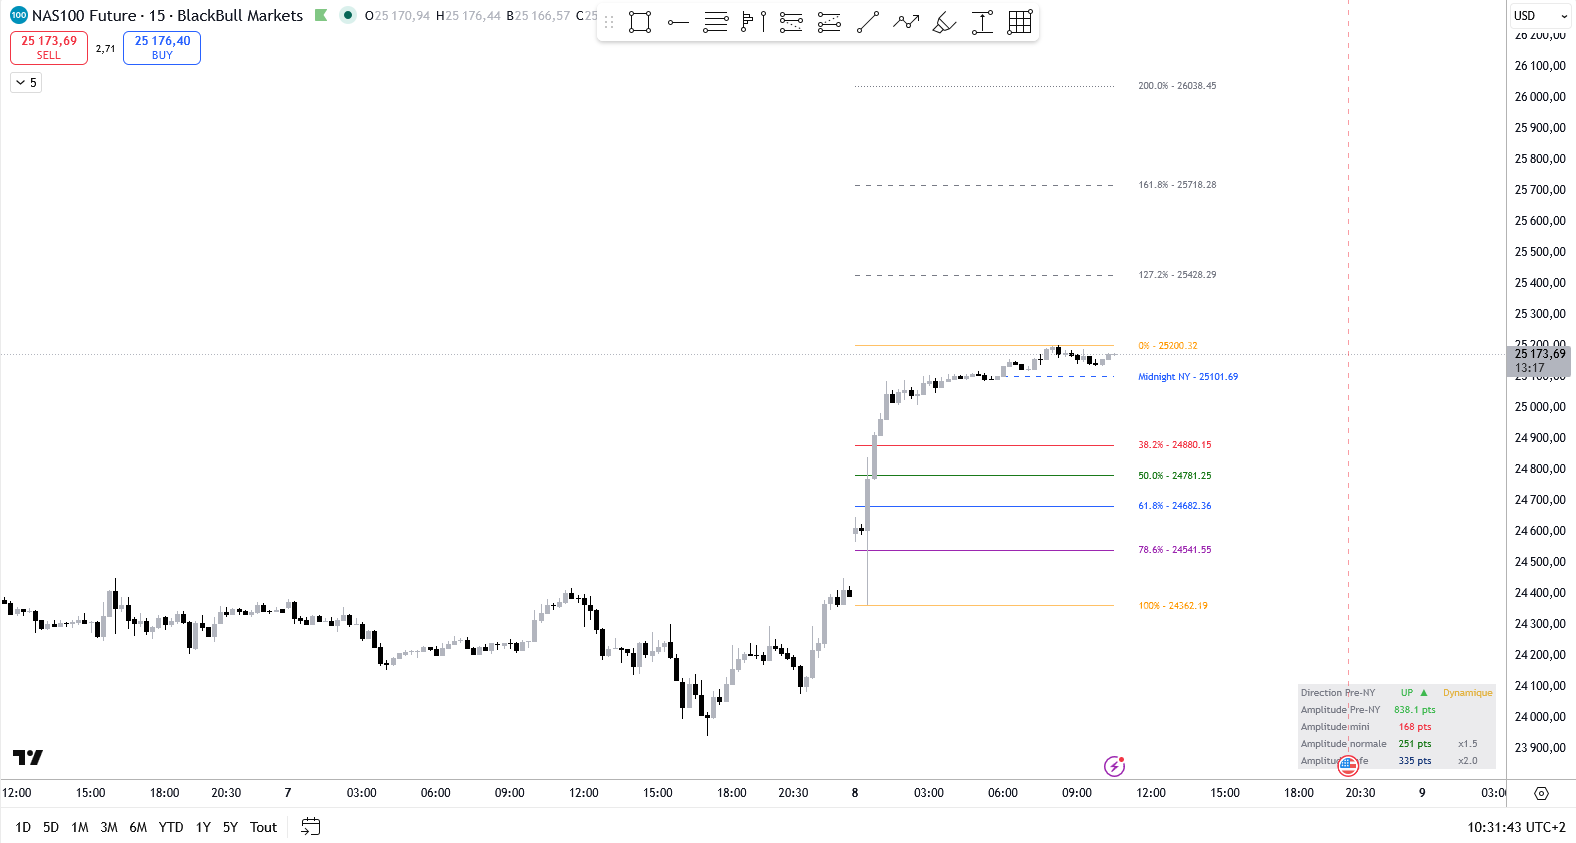
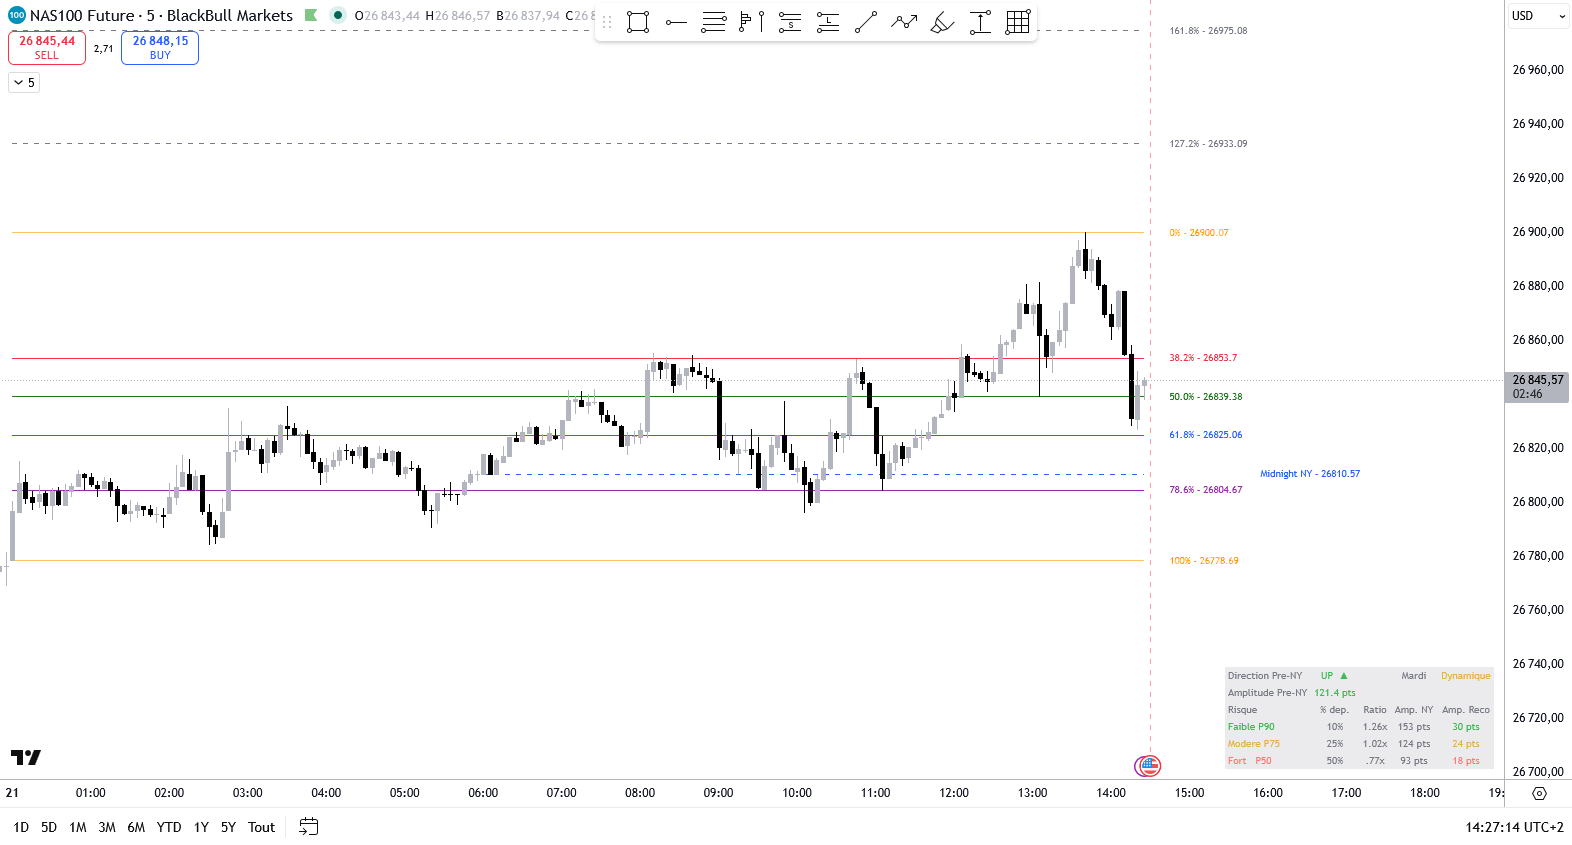
v1.2 - Dashboard amplitude recommandee par niveau de risque
- Remplace les lignes mini/normale/safe par 3 niveaux de risque :
  Faible (P90), Modere (P75), Fort (P50)
- Chaque niveau affiche : % jours qui depassent, ratio, amplitude NY
  estimee, et amplitude recommandee (basee sur les stats NQ 2024-2026)
- Ratios par jour de la semaine (Option B, Calculatrice Xeilos)
- Formule amplitude recommandee : round(0.1965 x ratio x Amp.PreNY)
- Jour de la semaine detecte automatiquement depuis le timestamp
- Dashboard passe de 3 a 5 colonnes et de 5 a 6 lignes
- Screenshot et README mis a jour

diff --git a/README.md b/README.md
@@ -4,7 +4,7 @@
 
 Indicateur TradingView Pine Script v6 pour le scalp contrarien sur NQ Futures (Nasdaq 100).
 
-Il trace les niveaux de Fibonacci basés sur le range Pre-NY (ouverture CME Globex → ouverture NY AM), avec dashboard d'amplitude intégré.
+Il trace les niveaux de Fibonacci basés sur le range Pre-NY (ouverture CME Globex → ouverture NY AM), avec dashboard d'amplitude intégré incluant une recommandation d'amplitude par niveau de risque basée sur les statistiques NQ 2024–2026.
 
 ---
 
@@ -57,13 +57,17 @@ Ligne horizontale au prix d'ouverture de la barre 0h00 NY (configurable). Utile 
 
 Affiché en bas à droite du graphique :
 
-| Ligne             | Valeur                           | Description                           |
-|-------------------|----------------------------------|---------------------------------------|
-| Direction Pre-NY  | UP / DOWN + Dynamique/Fige       | Direction du range et etat            |
-| Amplitude Pre-NY  | ex. 838 pts                      | Range total High-Low                  |
-| Amplitude mini    | ex. 168 pts                      | Range / 5 (moyenne des 5 intervalles) |
-| Amplitude normale | ex. 251 pts (x1.5)               | Amplitude mini x 1.5                  |
-| Amplitude safe    | ex. 335 pts (x2.0)               | Amplitude mini x 2.0                  |
+| Ligne            | Colonnes                                          | Description                                        |
+|------------------|---------------------------------------------------|----------------------------------------------------|
+| Direction Pre-NY | UP / DOWN — Jour — Dynamique/Figé                 | Direction, jour de la semaine, état                |
+| Amplitude Pre-NY | ex. 121 pts                                       | Range total High–Low                               |
+| Faible P90       | 10% dép. — Ratio — Amp. NY — **Amp. Reco**        | 10% des jours dépassent cette amplitude            |
+| Modéré P75       | 25% dép. — Ratio — Amp. NY — **Amp. Reco**        | 25% des jours dépassent cette amplitude            |
+| Fort P50         | 50% dép. — Ratio — Amp. NY — **Amp. Reco**        | 50% des jours dépassent cette amplitude            |
+
+Les ratios et l'amplitude recommandée sont calculés par jour de la semaine à partir des percentiles P90/P75/P50 issus des statistiques NQ (2 jan. 2024 – 2 avr. 2026, 581 jours).
+
+**Formule amplitude recommandée** : `round(0.1965 × ratio × Amplitude Pre-NY)` — 0.1965 étant la moyenne des 4 distances inter-niveaux Fibo (0→38.2→50→61.8→78.6%).
 
 ---
 
@@ -74,7 +78,7 @@ Affiché en bas à droite du graphique :
 - **Heure debut NY AM (Paris)** : heure d'ouverture NY en heure de Paris (défaut : 15)
 - **Minute debut NY AM** : minute (défaut : 30)
 
-### Dashboard
+### Paramètres Dashboard
 
 - **Afficher le dashboard** : afficher/masquer le dashboard
 
@@ -91,7 +95,7 @@ Chaque niveau (0%, 100%, 38.2%, 50%, 61.8%, 78.6%) est configurable indépendamm
 
 Chaque niveau (127.2%, 161.8%, 200%) est configurable indépendamment.
 
-### Midnight NY Open
+### Paramètres Midnight NY Open
 
 - Afficher/masquer la ligne
 - Couleur, épaisseur, style
@@ -118,6 +122,12 @@ Chaque niveau (127.2%, 161.8%, 200%) est configurable indépendamment.
 ---
 
 ## Changelog
+
+### v1.2 - 2026-04-21
+
+- Dashboard : amplitude recommandée par niveau de risque (Faible P90 / Modéré P75 / Fort P50)
+- Dashboard : ratio et amplitude NY estimée affichés par niveau, basés sur les stats NQ 2024–2026
+- Dashboard : jour de la semaine détecté automatiquement
 
 ### v1.1 - 2026-04-09
 
